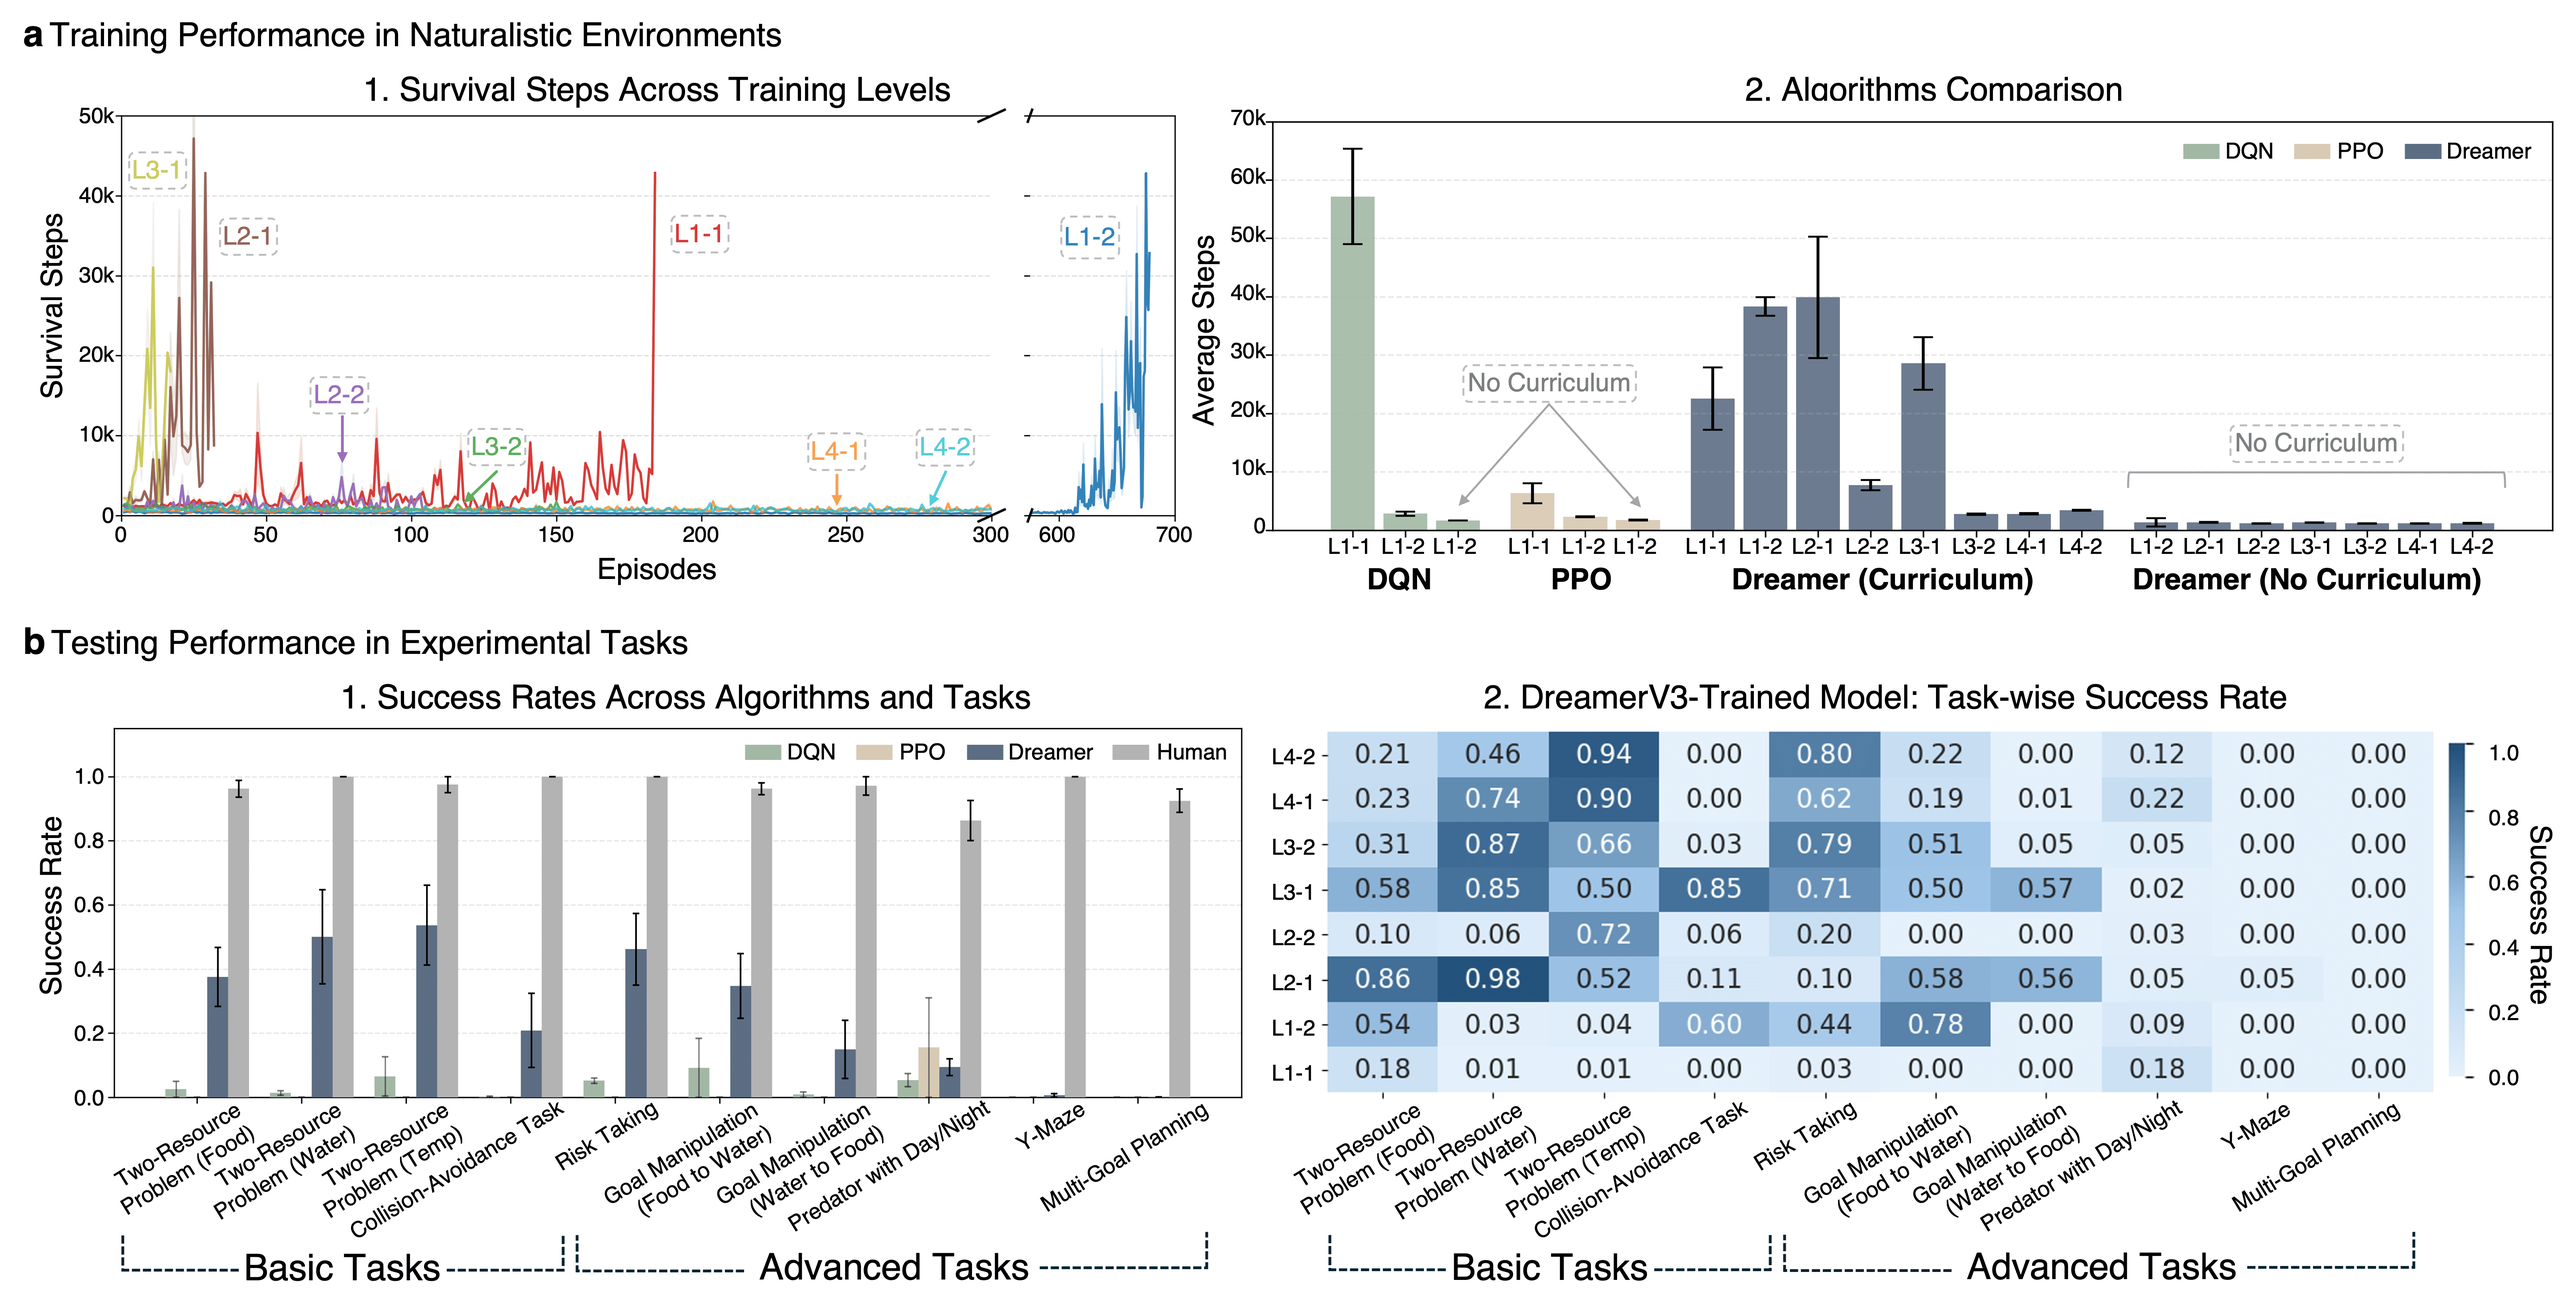
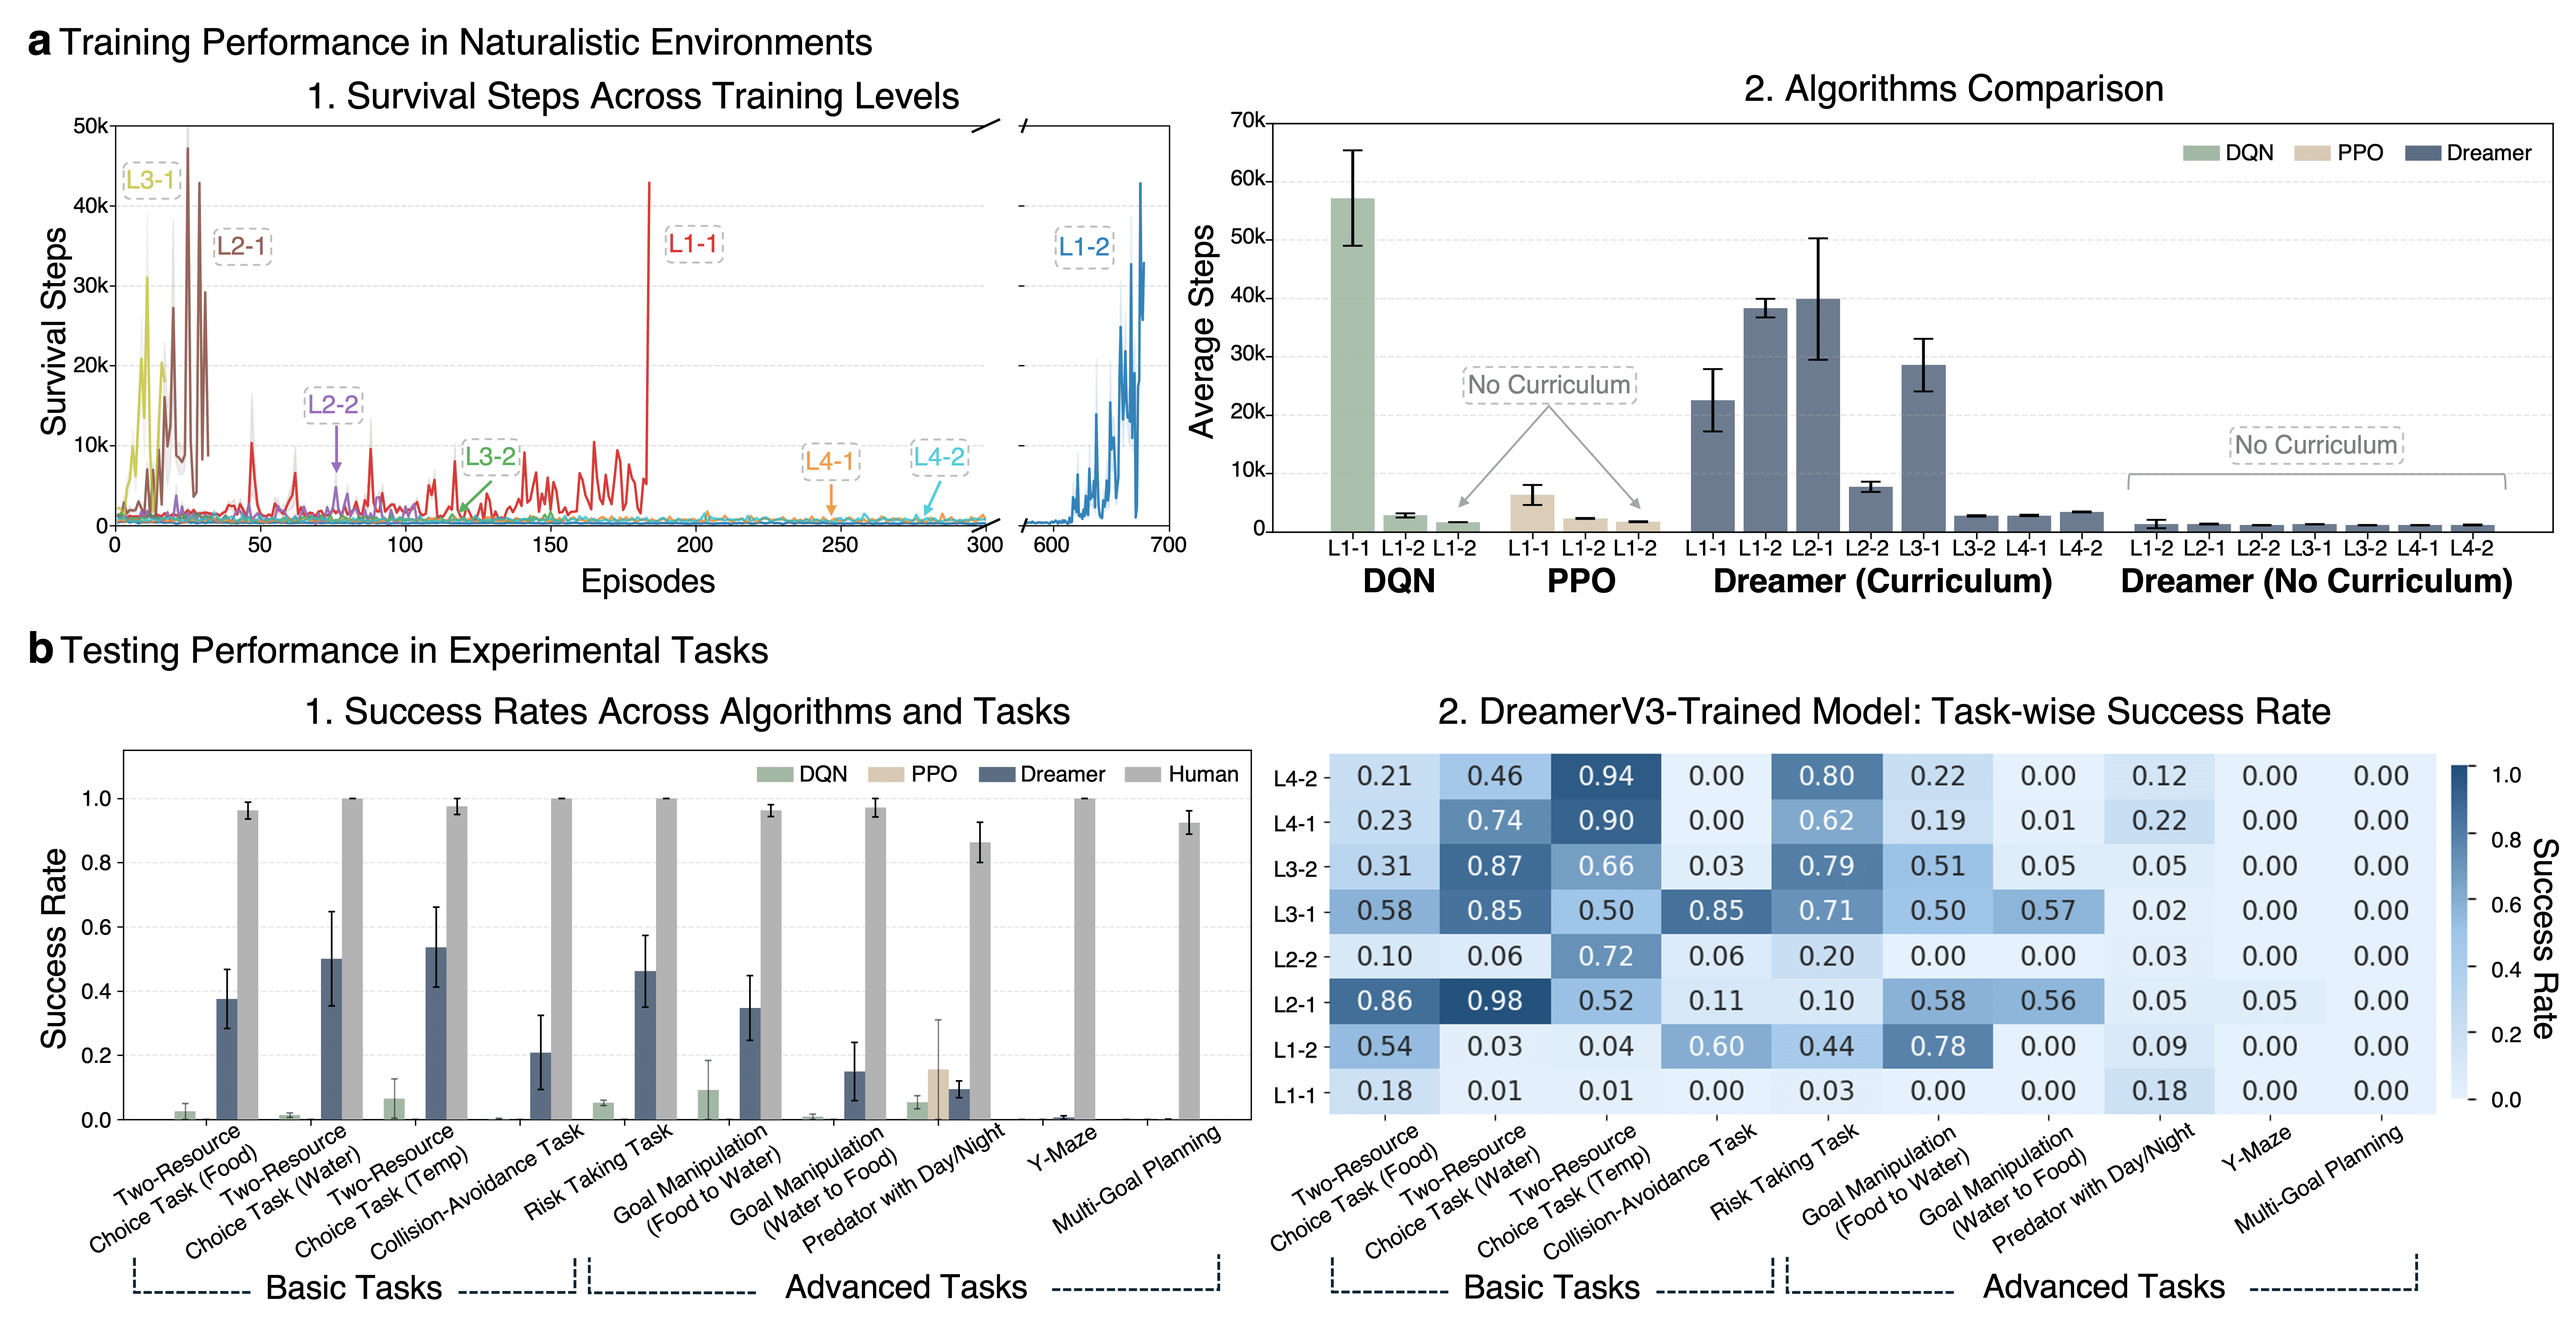
UPDATE: README.md and images

diff --git a/README.md b/README.md
@@ -4,7 +4,11 @@
 
 # EVAAA: Essential Variables in Autonomous and Adaptive Agents
 
-![fig1](image/fig1.png)
+<!-- ![fig1](image/fig1.png)
+ -->
+ <p align="left">
+  <img src="image/fig1.png" alt="Figure 1" width="1000"/>
+</p>
 
 EVAAA (Essential Variables in Autonomous and Adaptive Agents) is a biologically inspired 3D simulation platform for reinforcement learning (RL) research. Unlike traditional RL environments that rely on externally defined, task-specific rewards, EVAAA grounds agent motivation in the regulation of internal physiological variables—such as food, water, thermal balance, and damage—mirroring the homeostatic drives found in biological organisms.
 
@@ -19,7 +23,7 @@ Key features include:
 
 ## 🤖 Emergent Behavior of the Agent
 
-|type| Unsuccessful Agent in Two-Resource Scenario | Successful Agent in Two-Resource Scenario |
+<!-- |type| Unsuccessful Agent in Two-Resource Scenario | Successful Agent in Two-Resource Scenario |
 |:-------------------:|:-------------------------------------------:|:-----------------------------------------:|
 | training |![level-1-1](image/level-1-1.jpeg)|![level-2-1](image/level-2-1.jpeg)|
 | testing | ![Failed agent](image/level-1-1_exp-two-resource-food.gif)<br><sub>This agent operated only in level-1-1,<br>where resources are readily accessible and visible.</sub> | ![Succeed agent](image/level-2-1_exp-two-resource-food.gif)<br><sub>This agent navigated level-2-1,<br>where resources must be actively searched for and are less apparent.</sub> |
@@ -28,7 +32,102 @@ Key features include:
 |type| Normal Foraging Behavior | Abnormal Self-Terminating Behavior |
 |:-------------------:|:-------------------------------------------:|:-----------------------------------------:|
 | training |![level-3-1](image/level-3-1.jpeg)|![level-3-2](image/level-3-2.jpeg)|
-| testing | ![Failed agent](image/level-3-1_exp-Ymaze.gif)<br><sub>This agent was trained on level-3-1, where food resources are located in consistent and predictable positions.</sub> | ![Succeed agent](image/level-3-2_exp-Ymaze.gif)<br><sub>In level-3-2, dynamic resource locations increased uncertainty, prompting the agent to self-terminate early when food was not found to avoid negative rewards.</sub> |
+| testing | ![Failed agent](image/level-3-1_exp-Ymaze.gif)<br><sub>This agent was trained on level-3-1, where food resources are located in consistent and predictable positions.</sub> | ![Succeed agent](image/level-3-2_exp-Ymaze.gif)<br><sub>In level-3-2, dynamic resource locations increased uncertainty, prompting the agent to self-terminate early when food was not found to avoid negative rewards.</sub> | -->
+
+<!-- | type | Unsuccessful Agent in Two-Resource Scenario | Successful Agent in Two-Resource Scenario |
+|:----:|:-------------------------------------------:|:-----------------------------------------:|
+| training | <img src="image/level-1-1.jpeg" width="250"/> | <img src="image/level-2-1.jpeg" width="250"/> |
+| testing | <img src="image/level-1-1_exp-two-resource-food.gif" width="250"/><br><sub>This agent operated only in level-1-1,<br>where resources are readily accessible and visible.</sub> | <img src="image/level-2-1_exp-two-resource-food.gif" width="250"/><br><sub>This agent navigated level-2-1,<br>where resources must be actively searched for and are less apparent.</sub> |
+
+---
+
+| type | Normal Foraging Behavior | Abnormal Self-Terminating Behavior |
+|:----:|:--------------------------:|:----------------------------------:|
+| training | <img src="image/level-3-1.jpeg" width="250"/> | <img src="image/level-3-2.jpeg" width="250"/> |
+| testing | <img src="image/level-3-1_exp-Ymaze.gif" width="250"/><br><sub>This agent was trained on level-3-1, where food resources are located in consistent and predictable positions.</sub> | <img src="image/level-3-2_exp-Ymaze.gif" width="250"/><br><sub>In level-3-2, dynamic resource locations increased uncertainty, prompting the agent to self-terminate early when food was not found to avoid negative rewards.</sub> | -->
+
+<table>
+  <thead>
+    <tr>
+      <th style="width:120px; text-align:center;">Type</th>
+      <th style="width:340px; text-align:center;">Unsuccessful Agent in Two-Resource Scenario</th>
+      <th style="width:340px; text-align:center;">Successful Agent in Two-Resource Scenario</th>
+    </tr>
+  </thead>
+  <tbody>
+    <tr>
+      <td style="text-align:center; vertical-align:middle;">Training</td>
+      <td style="text-align:center;">
+        <img src="image/level-1-1.jpeg" width="260"/><br>
+      </td>
+      <td style="text-align:center;">
+        <img src="image/level-2-1.jpeg" width="260"/><br>
+      </td>
+    </tr>
+    <tr>
+      <td style="text-align:center; vertical-align:middle;">Testing</td>
+      <td style="text-align:center;">
+        <img src="image/level-1-1_exp-two-resource-food.gif" width="260"/><br>
+        <div style="font-size:12px; max-width:260px; margin:auto; line-height:1.4;">
+          This agent operated only in level-1-1,<br>
+          where resources are readily accessible and visible.
+        </div>
+      </td>
+      <td style="text-align:center;">
+        <img src="image/level-2-1_exp-two-resource-food.gif" width="260"/><br>
+        <div style="font-size:12px; max-width:260px; margin:auto; line-height:1.4;">
+          This agent navigated level-2-1,<br>
+          where resources must be actively searched for and are less apparent.
+        </div>
+      </td>
+    </tr>
+  </tbody>
+</table>
+
+<br>
+
+<table>
+  <thead>
+    <tr>
+      <th style="width:120px; text-align:center;">Type</th>
+      <th style="width:340px; text-align:center;">Normal Foraging Behavior</th>
+      <th style="width:340px; text-align:center;">Abnormal Self-Terminating Behavior</th>
+    </tr>
+  </thead>
+  <tbody>
+    <tr>
+      <td style="text-align:center; vertical-align:middle;">Training</td>
+      <td style="text-align:center;">
+        <img src="image/level-3-1.jpeg" width="260"/><br>
+      </td>
+      <td style="text-align:center;">
+        <img src="image/level-3-2.jpeg" width="260"/><br>
+      </td>
+    </tr>
+    <tr>
+      <td style="text-align:center; vertical-align:middle;">Testing</td>
+      <td style="text-align:center;">
+        <img src="image/level-3-1_exp-Ymaze.gif" width="260"/><br>
+        <div style="font-size:12px; max-width:260px; margin:auto; line-height:1.4;">
+          This agent was trained on level-3-1,<br>
+          where food resources are located in consistent and predictable positions.
+        </div>
+      </td>
+      <td style="text-align:center;">
+        <img src="image/level-3-2_exp-Ymaze.gif" width="260"/><br>
+        <div style="font-size:12px; max-width:260px; margin:auto; line-height:1.4;">
+          In level-3-2, dynamic resource locations increased uncertainty,<br>
+          prompting the agent to self-terminate early when food was not found<br>
+          to avoid negative rewards.
+        </div>
+      </td>
+    </tr>
+  </tbody>
+</table>
+
+
+
+
 
 
 ## 📝 Overview

diff --git a/evaaa_train/README.md b/evaaa_train/README.md
@@ -37,7 +37,12 @@ This folder includes three main algorithms:
 - **PPO (Proximal Policy Optimization)**: Implemented from SheepRL framework
 - **DQN (Deep Q-Network)**: Custom implementation by our team
 
-![fig4](../image/fig4.png)
+<!-- ![fig4](../image/fig4.png) -->
+<p align="left">
+  <img src="../image/fig4.png" alt="Figure 4" width="1000"/>
+</p>
+
+
 The training results are stored in the [plotting](/evaaa_train/plotting/) directory.
 
 <a id="environment-setup"></a>
@@ -154,8 +159,10 @@ The EVAAA environment provides multiple observation channels through the ML-Agen
 - `obs[0]`: Visual observation (camera input)
 - `obs[1]`: Vector observation containing multiple sensor readings
 
-![fig2](../image/fig2.png)
-
+<!-- ![fig2](../image/fig2.png) -->
+<p align="left">
+  <img src="../image/fig2.png" alt="Figure 2" width="1000"/>
+</p>
 
 ### Vector Observations (obs[1])
 The vector observation is a concatenated array of different sensor readings:

diff --git a/evaaa_unity/README.md b/evaaa_unity/README.md
@@ -170,7 +170,10 @@ EVAAA is designed so that all environment, agent, and task settings are controll
 |                                            | exp-predator                         |
 
 
-![fig3](../image/fig3.png)
+<!-- ![fig3](../image/fig3.png) -->
+<p align="left">
+  <img src="../image/fig3.png" alt="Figure 3" width="1000"/>
+</p>
 
 #### 3. Modifying Environment, Agent, or Task Settings
 - Open the folder named in `configFolderName` (e.g., `Config/train-level-2.1-Obstacles/`).
